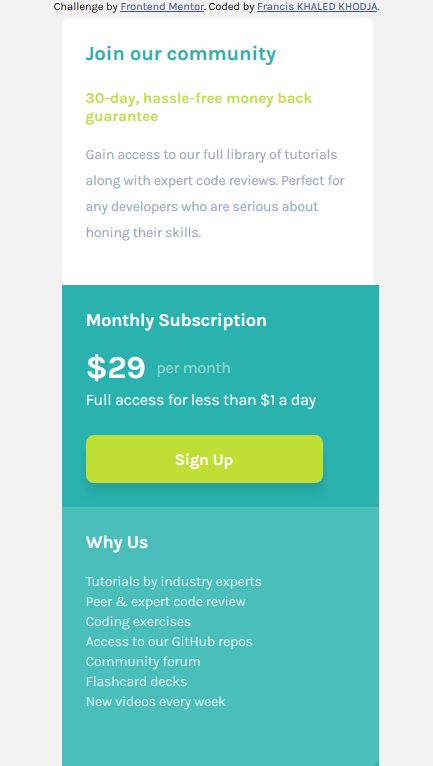
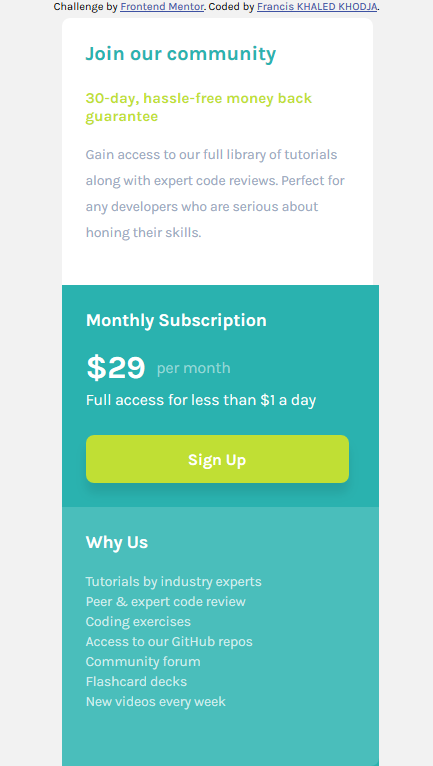
correction of the button for the mobile version

Changed region(s): [[0.3903, 0.5705, 0.5704, 0.6305], [0.7206, 0.5705, 0.8106, 0.6305]]

diff --git a/single-price-grid-component-master/styles/style.css b/single-price-grid-component-master/styles/style.css
@@ -197,6 +197,9 @@ h1 {
         padding: 2.4rem; /* mobile */
     }
 
+    .card--bottom--left__button {
+        width: 26.3rem;
+    }
     .card--bottom--right {
         grid-row: 3 / 4; /* mobile */
         grid-column: 1 / 2; /* mobile */
